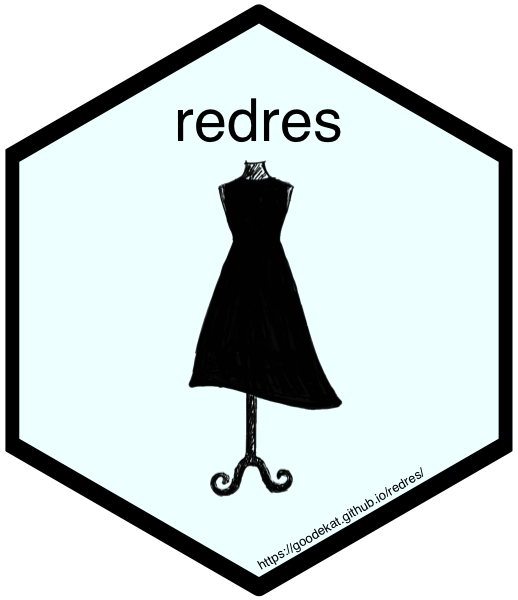
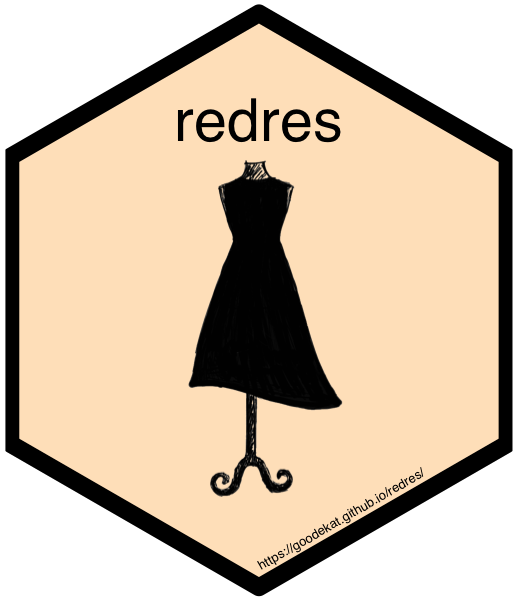
changed sticker color

diff --git a/docs/articles/redres-vignette.html b/docs/articles/redres-vignette.html
@@ -92,12 +92,12 @@
 <div id="introducing-redres" class="section level1">
 <h1 class="hasAnchor">
 <a href="#introducing-redres" class="anchor"></a>Introducing redres</h1>
-<p><img align="right" width="135" height="150" src="figs/sticker.png"></p>
 <p><strong>redres</strong> stands for <strong>r</strong>andom <strong>e</strong>ffect <strong>d</strong>iagnostic <strong>res</strong>iduals</p>
 <p>This package is meant to be a supplemental package to <code>lme4</code>.</p>
 <div id="overview" class="section level2">
 <h2 class="hasAnchor">
 <a href="#overview" class="anchor"></a>Overview</h2>
+<p><img align="right" width="150" height="175" src="figs/sticker.png"></p>
 <p>The Merriam-Webster dictionary defines <a href="https://www.merriam-webster.com/dictionary/redress">redress</a> as “to set right”. When we assign a linear mixed model to data, we assume (1) independence of our observations, (2) a linear relationship between the response and the explanatory variables, (3) constant variance and (4) normality of the error term. By inspecting our residuals we can diagnose erronous assumptions and missing structure, allowing us to set right the more egregious misspecifications. No model is perfect, but our residuals are a first line of defense against an inaccurate model and consequently poor inference.</p>
 </div>
 <div id="package-structure" class="section level2">
@@ -161,44 +161,9 @@ devtools<span class="op">::</span><span class="kw"><a href="https://www.rdocumen
 <div id="example-data" class="section level2">
 <h2 class="hasAnchor">
 <a href="#example-data" class="anchor"></a>Example Data</h2>
-<p><code>redres</code> contains a dataset called <code>paprika</code>, which will be used to demonstrate the functions in this vignette. The data is from a study on paprika plants grown under small-scale farming conditions in southern Africa. The original paper on the study can be found <a href="https://link.springer.com/article/10.1007%2Fs10457-011-9415-2">here</a>. The study was conducted in 2007 and 2008 in Malawi using a split plot design with five replicates. The researchers compared 4 fertilizer treatments and 6 plant varieties.</p>
-<table class="table">
-<colgroup>
-<col width="34%">
-<col width="34%">
-</colgroup>
-<thead><tr class="header">
-<th>Fertilizers</th>
-<th>Plant Varieties</th>
-</tr></thead>
-<tbody>
-<tr class="odd">
-<td>(1) control</td>
-<td>(1) Papri-King</td>
-</tr>
-<tr class="even">
-<td>(2) inorganic fertilizer</td>
-<td>(2) Papri-Queen</td>
-</tr>
-<tr class="odd">
-<td>(3) Gliricidia biomass</td>
-<td>(3) Papri-Excel</td>
-</tr>
-<tr class="even">
-<td>(4) Gliricidia biomass plus half the recommended dose of fertilizer for paprika</td>
-<td>(4) Papri-Supreme</td>
-</tr>
-<tr class="odd">
-<td></td>
-<td>(5) Papri-Ace</td>
-</tr>
-<tr class="even">
-<td></td>
-<td>(6) PX1140 4601)</td>
-</tr>
-</tbody>
-</table>
-<p>The fertilizers were applied to the main plots, and the varieties were assigned to the subplots within a main plot. Within each replicate, 10 plants were randomly chosen from each fertilizer and variety treatment combination and observed over 20 weeks. The dataset included in <code>redres</code> contains observations from week 4 of the data in 2008. It is stored as a tibble with 1070 rows and 5 variables. The variables are</p>
+<p><code>redres</code> contains a dataset called <code>paprika</code>, which will be used to demonstrate the functions in this vignette. The data is from a study on paprika plants grown under small-scale farming conditions in southern Africa. The original paper on the study can be found <a href="https://link.springer.com/article/10.1007%2Fs10457-011-9415-2">here</a>. The study was conducted in 2007 and 2008 in Malawi using a split plot design with five replicates.</p>
+<p>The researchers compared 4 fertilizer treatments and 6 plant varieties. The fertilizers were applied to the main plots, and the varieties were assigned to the subplots within a main plot. Within each replicate, 10 plants were randomly chosen from each fertilizer and variety treatment combination and observed over 20 weeks.</p>
+<p>The dataset included in <code>redres</code> contains observations from week 4 of the data in 2008. It is stored as a tibble with 1070 rows and 5 variables. The variables are</p>
 <ul>
 <li>
 <code>rep</code>: replicate number</li>
